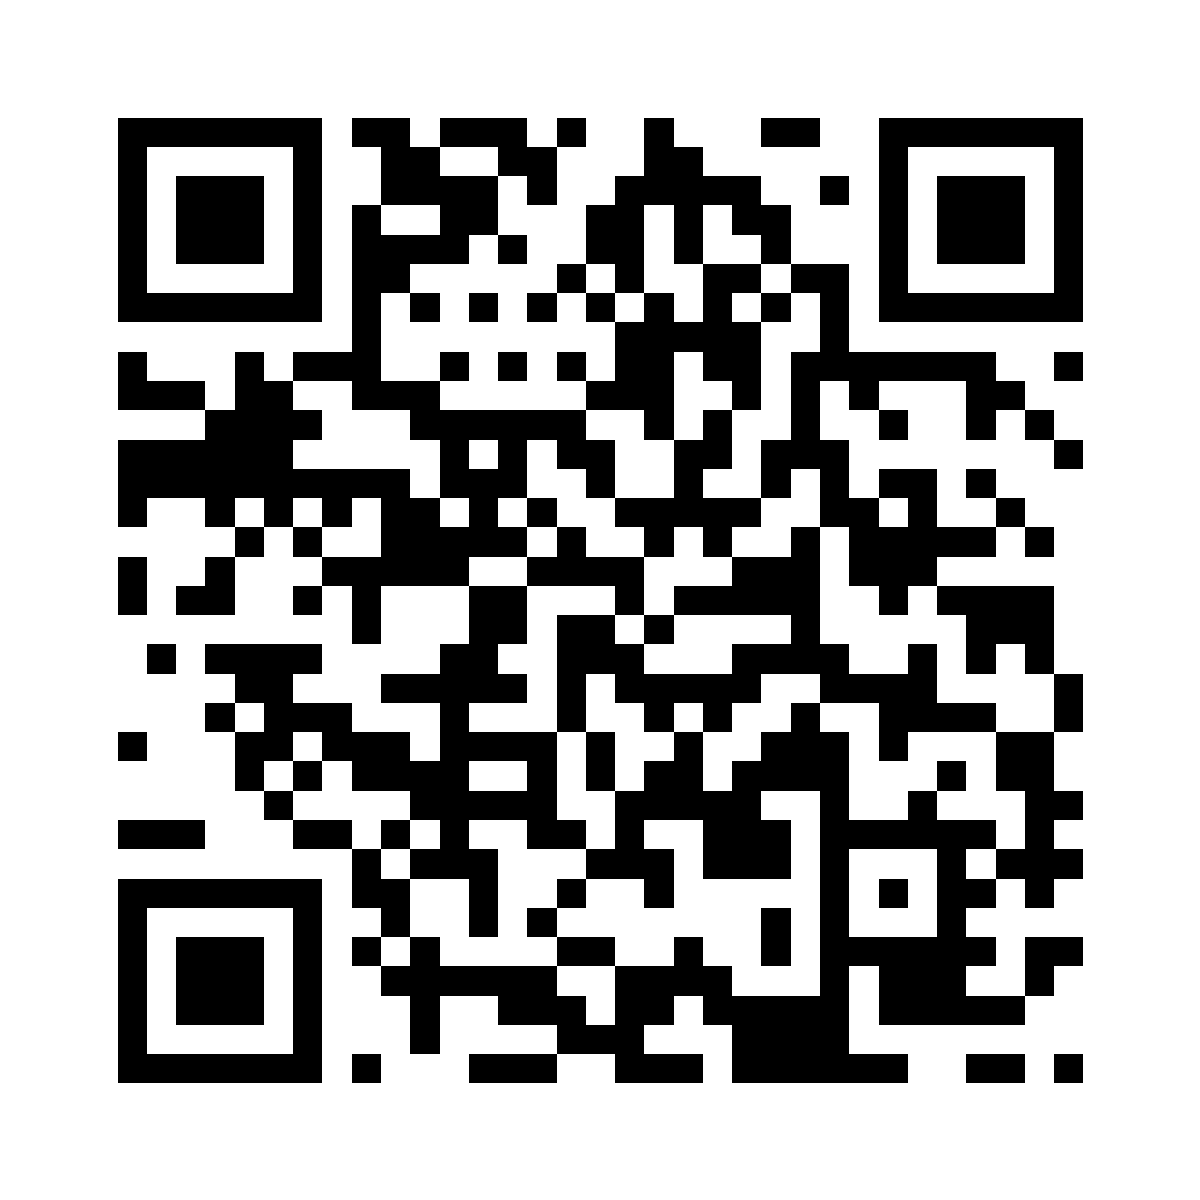
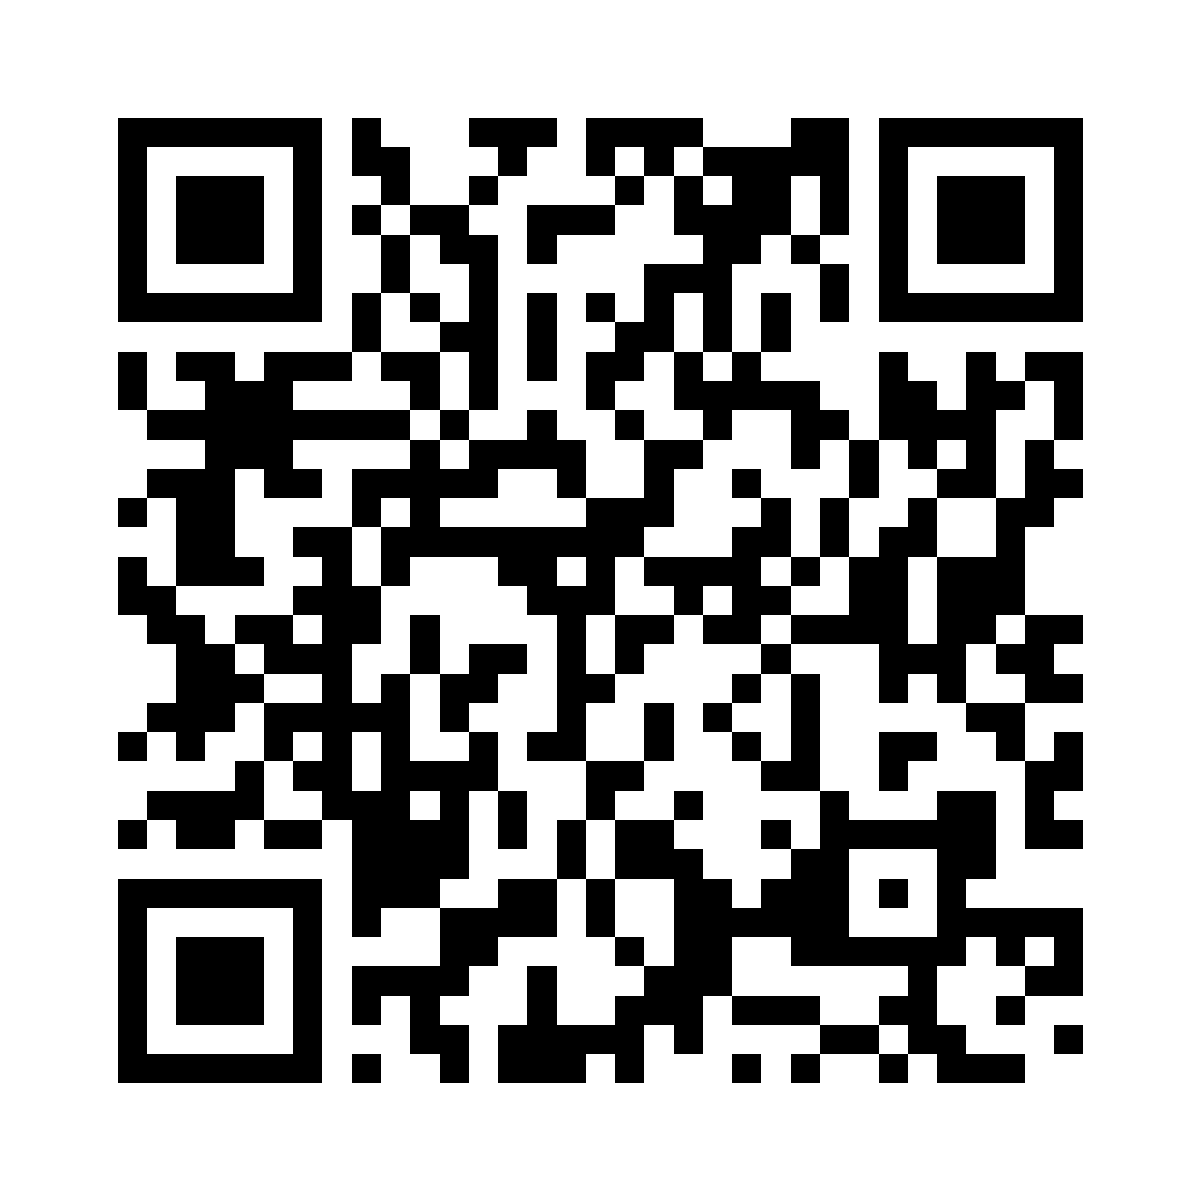
chore: point photo QR card at /photos instead of Google album
Regenerate QR PNG/SVG and the printable A6 card for
https://alice-rudolph-2026.vercel.app/photos now that the on-site
upload flow is primary.

Changed region(s): [[0.0925, 0.0925, 0.925, 0.925]]

diff --git a/public/photos-qr-card.html b/public/photos-qr-card.html
@@ -106,11 +106,11 @@
   </div>
   <p class="kicker">Alice &amp; Rudolph</p>
   <h1>Share Your Photos</h1>
-  <p class="sub">Scan to add every photo and video you take today to our shared album — and take home everyone else&apos;s too.</p>
+  <p class="sub">Scan to add the photos you took today to our album — full-resolution, straight off your phone — and see everyone else&apos;s too.</p>
   <div class="qr">
-    <svg xmlns="http://www.w3.org/2000/svg" viewBox="0 0 41 41" shape-rendering="crispEdges"><path fill="#ffffff" d="M0 0h41v41H0z"/><path stroke="#000000" d="M4 4.5h7m4 0h2m1 0h1m3 0h6m2 0h7M4 5.5h1m5 0h1m3 0h1m4 0h1m2 0h1m1 0h2m4 0h1m5 0h1M4 6.5h1m1 0h3m1 0h1m1 0h2m4 0h1m1 0h1m2 0h5m2 0h1m1 0h3m1 0h1M4 7.5h1m1 0h3m1 0h1m1 0h1m1 0h1m7 0h2m1 0h1m1 0h2m1 0h1m1 0h3m1 0h1M4 8.5h1m1 0h3m1 0h1m1 0h1m1 0h2m2 0h4m2 0h3m3 0h1m1 0h3m1 0h1M4 9.5h1m5 0h1m1 0h1m4 0h2m2 0h1m1 0h1m3 0h2m1 0h1m5 0h1M4 10.5h7m1 0h1m1 0h1m1 0h1m1 0h1m1 0h1m1 0h1m1 0h1m1 0h1m1 0h1m1 0h7M12 11.5h1m1 0h3m3 0h1m2 0h5M4 12.5h1m1 0h5m2 0h1m1 0h1m2 0h1m2 0h3m3 0h2m1 0h5M4 13.5h1m2 0h3m1 0h1m2 0h1m2 0h8m2 0h1m2 0h2m1 0h4M4 14.5h1m2 0h1m2 0h1m6 0h5m2 0h1m1 0h1m1 0h1m1 0h1m1 0h1m1 0h2M5 15.5h3m6 0h1m1 0h2m1 0h1m1 0h4m7 0h3m1 0h1M4 16.5h1m3 0h3m4 0h2m1 0h3m3 0h3m1 0h2m3 0h1m1 0h2M4 17.5h3m2 0h1m2 0h1m1 0h1m1 0h2m1 0h1m1 0h2m5 0h1m1 0h1m3 0h3M4 18.5h1m4 0h2m2 0h1m3 0h1m1 0h3m2 0h1m1 0h1m1 0h4m2 0h2M7 19.5h3m1 0h3m2 0h1m1 0h2m2 0h1m2 0h1m2 0h7M4 20.5h2m4 0h2m1 0h1m2 0h1m1 0h2m1 0h1m4 0h2m1 0h1m1 0h4m1 0h1M5 21.5h3m3 0h1m1 0h1m2 0h1m1 0h1m1 0h1m1 0h4m1 0h1m1 0h3m1 0h2m1 0h1M4 22.5h2m1 0h1m2 0h1m3 0h1m4 0h1m2 0h1m2 0h1m5 0h2m1 0h2M4 23.5h1m8 0h1m3 0h1m1 0h2m2 0h5m1 0h6m1 0h1M5 24.5h2m2 0h2m1 0h2m1 0h1m1 0h2m3 0h2m1 0h1m1 0h1m1 0h1m2 0h2m1 0h1M4 25.5h6m5 0h2m2 0h2m3 0h6m1 0h1m2 0h1m1 0h1M4 26.5h1m4 0h2m1 0h2m2 0h1m1 0h1m2 0h1m1 0h1m1 0h1m7 0h1m1 0h1M4 27.5h1m3 0h1m8 0h2m1 0h1m2 0h5m3 0h6M4 28.5h1m2 0h1m2 0h1m1 0h1m2 0h1m1 0h1m3 0h1m1 0h1m2 0h1m1 0h6m2 0h1M12 29.5h12m2 0h1m1 0h1m3 0h1m1 0h1M4 30.5h7m2 0h3m3 0h3m4 0h3m1 0h1m1 0h1m1 0h2M4 31.5h1m5 0h1m1 0h4m2 0h1m1 0h3m4 0h2m3 0h3M4 32.5h1m1 0h3m1 0h1m1 0h3m2 0h2m1 0h1m3 0h3m1 0h6M4 33.5h1m1 0h3m1 0h1m1 0h1m1 0h3m2 0h1m1 0h2m2 0h1m2 0h2m2 0h1m3 0h1M4 34.5h1m1 0h3m1 0h1m1 0h1m2 0h6m3 0h2m4 0h2M4 35.5h1m5 0h1m4 0h2m2 0h1m2 0h1m2 0h1m6 0h3M4 36.5h7m1 0h2m2 0h1m2 0h1m1 0h2m1 0h1m1 0h3m2 0h1m1 0h3"/></svg>
+    <svg xmlns="http://www.w3.org/2000/svg" viewBox="0 0 41 41" shape-rendering="crispEdges"><path fill="#ffffff" d="M0 0h41v41H0z"/><path stroke="#000000" d="M4 4.5h7m5 0h3m1 0h4m3 0h2m1 0h7M4 5.5h1m5 0h1m4 0h7m4 0h1m3 0h1m5 0h1M4 6.5h1m1 0h3m1 0h1m1 0h1m1 0h1m2 0h1m1 0h4m7 0h1m1 0h3m1 0h1M4 7.5h1m1 0h3m1 0h1m1 0h1m1 0h2m2 0h3m2 0h4m1 0h1m1 0h1m1 0h3m1 0h1M4 8.5h1m1 0h3m1 0h1m1 0h1m6 0h1m1 0h2m5 0h1m1 0h1m1 0h3m1 0h1M4 9.5h1m5 0h1m1 0h1m1 0h1m2 0h1m1 0h2m3 0h3m3 0h1m5 0h1M4 10.5h7m1 0h1m1 0h1m1 0h1m1 0h1m1 0h1m1 0h1m1 0h1m1 0h1m1 0h1m1 0h7M12 11.5h2m5 0h1m5 0h4M4 12.5h1m1 0h5m6 0h3m1 0h2m3 0h1m1 0h1m1 0h5M4 13.5h1m2 0h3m4 0h1m1 0h1m3 0h1m2 0h5m2 0h2m1 0h2m1 0h1M4 14.5h2m2 0h1m1 0h2m4 0h1m2 0h1m2 0h1m2 0h1m6 0h1m1 0h1M4 15.5h2m3 0h1m1 0h1m1 0h1m4 0h1m1 0h1m4 0h4m3 0h3M5 16.5h3m1 0h2m1 0h5m2 0h1m2 0h1m2 0h1m3 0h1m2 0h2m1 0h2M9 17.5h1m3 0h4m1 0h3m3 0h4m2 0h1m2 0h1m1 0h2M4 18.5h3m1 0h1m1 0h1m4 0h1m2 0h1m2 0h3m5 0h2m1 0h1m2 0h1M4 19.5h1m1 0h3m2 0h1m1 0h1m3 0h2m1 0h1m1 0h4m1 0h1m1 0h2m1 0h3M5 20.5h3m1 0h3m1 0h1m1 0h2m3 0h5m1 0h4m1 0h2m3 0h1M4 21.5h1m1 0h2m1 0h1m2 0h2m2 0h2m2 0h2m1 0h2m1 0h2m2 0h2m1 0h2m1 0h1M6 22.5h2m1 0h3m2 0h1m1 0h2m1 0h1m1 0h1m4 0h1m3 0h3m1 0h2M4 23.5h1m3 0h2m1 0h2m5 0h1m1 0h3m1 0h1m3 0h1m2 0h5M4 24.5h1m1 0h1m1 0h3m1 0h1m1 0h4m2 0h1m2 0h7m1 0h3m1 0h1M4 25.5h1m1 0h1m2 0h1m1 0h1m1 0h1m2 0h1m1 0h2m2 0h1m2 0h1m1 0h1m2 0h2m2 0h1m1 0h1M4 26.5h1m1 0h7m1 0h1m3 0h3m1 0h1m1 0h3m1 0h1m2 0h1m1 0h3M4 27.5h1m1 0h1m5 0h1m1 0h3m2 0h1m2 0h1m2 0h2m2 0h1m1 0h1m1 0h2M4 28.5h1m1 0h2m1 0h2m1 0h4m1 0h1m1 0h1m1 0h2m3 0h1m1 0h6m1 0h2M12 29.5h1m1 0h1m1 0h1m1 0h1m4 0h3m2 0h1m3 0h1m1 0h1m1 0h1M4 30.5h7m5 0h1m1 0h2m2 0h1m1 0h2m1 0h2m1 0h1m1 0h1m1 0h2M4 31.5h1m5 0h1m1 0h1m2 0h4m1 0h1m2 0h6m3 0h5M4 32.5h1m1 0h3m1 0h1m1 0h2m4 0h2m2 0h2m1 0h1m2 0h6M4 33.5h1m1 0h3m1 0h1m1 0h1m2 0h6m3 0h3m1 0h2m2 0h1m1 0h1m1 0h1M4 34.5h1m1 0h3m1 0h1m1 0h1m1 0h1m3 0h1m2 0h3m1 0h3m2 0h2m2 0h1M4 35.5h1m5 0h1m2 0h2m1 0h2m2 0h1m1 0h4m1 0h1m1 0h2m1 0h3M4 36.5h7m1 0h5m1 0h1m1 0h4m2 0h6m1 0h1m1 0h1"/></svg>
   </div>
-  <p class="url">photos.app.goo.gl/LaN6PFnpSzY8XcPg8</p>
+  <p class="url">alice-rudolph-2026.vercel.app/photos</p>
   <p class="footer">Alice &amp; Rudolph</p>
   <p class="date">12 · September · 2026</p>
 </div>
@@ -127,11 +127,11 @@
   </div>
   <p class="kicker">Alice &amp; Rudolph</p>
   <h1>Share Your Photos</h1>
-  <p class="sub">Scan to add every photo and video you take today to our shared album — and take home everyone else&apos;s too.</p>
+  <p class="sub">Scan to add the photos you took today to our album — full-resolution, straight off your phone — and see everyone else&apos;s too.</p>
   <div class="qr">
-    <svg xmlns="http://www.w3.org/2000/svg" viewBox="0 0 41 41" shape-rendering="crispEdges"><path fill="#ffffff" d="M0 0h41v41H0z"/><path stroke="#000000" d="M4 4.5h7m4 0h2m1 0h1m3 0h6m2 0h7M4 5.5h1m5 0h1m3 0h1m4 0h1m2 0h1m1 0h2m4 0h1m5 0h1M4 6.5h1m1 0h3m1 0h1m1 0h2m4 0h1m1 0h1m2 0h5m2 0h1m1 0h3m1 0h1M4 7.5h1m1 0h3m1 0h1m1 0h1m1 0h1m7 0h2m1 0h1m1 0h2m1 0h1m1 0h3m1 0h1M4 8.5h1m1 0h3m1 0h1m1 0h1m1 0h2m2 0h4m2 0h3m3 0h1m1 0h3m1 0h1M4 9.5h1m5 0h1m1 0h1m4 0h2m2 0h1m1 0h1m3 0h2m1 0h1m5 0h1M4 10.5h7m1 0h1m1 0h1m1 0h1m1 0h1m1 0h1m1 0h1m1 0h1m1 0h1m1 0h1m1 0h7M12 11.5h1m1 0h3m3 0h1m2 0h5M4 12.5h1m1 0h5m2 0h1m1 0h1m2 0h1m2 0h3m3 0h2m1 0h5M4 13.5h1m2 0h3m1 0h1m2 0h1m2 0h8m2 0h1m2 0h2m1 0h4M4 14.5h1m2 0h1m2 0h1m6 0h5m2 0h1m1 0h1m1 0h1m1 0h1m1 0h1m1 0h2M5 15.5h3m6 0h1m1 0h2m1 0h1m1 0h4m7 0h3m1 0h1M4 16.5h1m3 0h3m4 0h2m1 0h3m3 0h3m1 0h2m3 0h1m1 0h2M4 17.5h3m2 0h1m2 0h1m1 0h1m1 0h2m1 0h1m1 0h2m5 0h1m1 0h1m3 0h3M4 18.5h1m4 0h2m2 0h1m3 0h1m1 0h3m2 0h1m1 0h1m1 0h4m2 0h2M7 19.5h3m1 0h3m2 0h1m1 0h2m2 0h1m2 0h1m2 0h7M4 20.5h2m4 0h2m1 0h1m2 0h1m1 0h2m1 0h1m4 0h2m1 0h1m1 0h4m1 0h1M5 21.5h3m3 0h1m1 0h1m2 0h1m1 0h1m1 0h1m1 0h4m1 0h1m1 0h3m1 0h2m1 0h1M4 22.5h2m1 0h1m2 0h1m3 0h1m4 0h1m2 0h1m2 0h1m5 0h2m1 0h2M4 23.5h1m8 0h1m3 0h1m1 0h2m2 0h5m1 0h6m1 0h1M5 24.5h2m2 0h2m1 0h2m1 0h1m1 0h2m3 0h2m1 0h1m1 0h1m1 0h1m2 0h2m1 0h1M4 25.5h6m5 0h2m2 0h2m3 0h6m1 0h1m2 0h1m1 0h1M4 26.5h1m4 0h2m1 0h2m2 0h1m1 0h1m2 0h1m1 0h1m1 0h1m7 0h1m1 0h1M4 27.5h1m3 0h1m8 0h2m1 0h1m2 0h5m3 0h6M4 28.5h1m2 0h1m2 0h1m1 0h1m2 0h1m1 0h1m3 0h1m1 0h1m2 0h1m1 0h6m2 0h1M12 29.5h12m2 0h1m1 0h1m3 0h1m1 0h1M4 30.5h7m2 0h3m3 0h3m4 0h3m1 0h1m1 0h1m1 0h2M4 31.5h1m5 0h1m1 0h4m2 0h1m1 0h3m4 0h2m3 0h3M4 32.5h1m1 0h3m1 0h1m1 0h3m2 0h2m1 0h1m3 0h3m1 0h6M4 33.5h1m1 0h3m1 0h1m1 0h1m1 0h3m2 0h1m1 0h2m2 0h1m2 0h2m2 0h1m3 0h1M4 34.5h1m1 0h3m1 0h1m1 0h1m2 0h6m3 0h2m4 0h2M4 35.5h1m5 0h1m4 0h2m2 0h1m2 0h1m2 0h1m6 0h3M4 36.5h7m1 0h2m2 0h1m2 0h1m1 0h2m1 0h1m1 0h3m2 0h1m1 0h3"/></svg>
+    <svg xmlns="http://www.w3.org/2000/svg" viewBox="0 0 41 41" shape-rendering="crispEdges"><path fill="#ffffff" d="M0 0h41v41H0z"/><path stroke="#000000" d="M4 4.5h7m5 0h3m1 0h4m3 0h2m1 0h7M4 5.5h1m5 0h1m4 0h7m4 0h1m3 0h1m5 0h1M4 6.5h1m1 0h3m1 0h1m1 0h1m1 0h1m2 0h1m1 0h4m7 0h1m1 0h3m1 0h1M4 7.5h1m1 0h3m1 0h1m1 0h1m1 0h2m2 0h3m2 0h4m1 0h1m1 0h1m1 0h3m1 0h1M4 8.5h1m1 0h3m1 0h1m1 0h1m6 0h1m1 0h2m5 0h1m1 0h1m1 0h3m1 0h1M4 9.5h1m5 0h1m1 0h1m1 0h1m2 0h1m1 0h2m3 0h3m3 0h1m5 0h1M4 10.5h7m1 0h1m1 0h1m1 0h1m1 0h1m1 0h1m1 0h1m1 0h1m1 0h1m1 0h1m1 0h7M12 11.5h2m5 0h1m5 0h4M4 12.5h1m1 0h5m6 0h3m1 0h2m3 0h1m1 0h1m1 0h5M4 13.5h1m2 0h3m4 0h1m1 0h1m3 0h1m2 0h5m2 0h2m1 0h2m1 0h1M4 14.5h2m2 0h1m1 0h2m4 0h1m2 0h1m2 0h1m2 0h1m6 0h1m1 0h1M4 15.5h2m3 0h1m1 0h1m1 0h1m4 0h1m1 0h1m4 0h4m3 0h3M5 16.5h3m1 0h2m1 0h5m2 0h1m2 0h1m2 0h1m3 0h1m2 0h2m1 0h2M9 17.5h1m3 0h4m1 0h3m3 0h4m2 0h1m2 0h1m1 0h2M4 18.5h3m1 0h1m1 0h1m4 0h1m2 0h1m2 0h3m5 0h2m1 0h1m2 0h1M4 19.5h1m1 0h3m2 0h1m1 0h1m3 0h2m1 0h1m1 0h4m1 0h1m1 0h2m1 0h3M5 20.5h3m1 0h3m1 0h1m1 0h2m3 0h5m1 0h4m1 0h2m3 0h1M4 21.5h1m1 0h2m1 0h1m2 0h2m2 0h2m2 0h2m1 0h2m1 0h2m2 0h2m1 0h2m1 0h1M6 22.5h2m1 0h3m2 0h1m1 0h2m1 0h1m1 0h1m4 0h1m3 0h3m1 0h2M4 23.5h1m3 0h2m1 0h2m5 0h1m1 0h3m1 0h1m3 0h1m2 0h5M4 24.5h1m1 0h1m1 0h3m1 0h1m1 0h4m2 0h1m2 0h7m1 0h3m1 0h1M4 25.5h1m1 0h1m2 0h1m1 0h1m1 0h1m2 0h1m1 0h2m2 0h1m2 0h1m1 0h1m2 0h2m2 0h1m1 0h1M4 26.5h1m1 0h7m1 0h1m3 0h3m1 0h1m1 0h3m1 0h1m2 0h1m1 0h3M4 27.5h1m1 0h1m5 0h1m1 0h3m2 0h1m2 0h1m2 0h2m2 0h1m1 0h1m1 0h2M4 28.5h1m1 0h2m1 0h2m1 0h4m1 0h1m1 0h1m1 0h2m3 0h1m1 0h6m1 0h2M12 29.5h1m1 0h1m1 0h1m1 0h1m4 0h3m2 0h1m3 0h1m1 0h1m1 0h1M4 30.5h7m5 0h1m1 0h2m2 0h1m1 0h2m1 0h2m1 0h1m1 0h1m1 0h2M4 31.5h1m5 0h1m1 0h1m2 0h4m1 0h1m2 0h6m3 0h5M4 32.5h1m1 0h3m1 0h1m1 0h2m4 0h2m2 0h2m1 0h1m2 0h6M4 33.5h1m1 0h3m1 0h1m1 0h1m2 0h6m3 0h3m1 0h2m2 0h1m1 0h1m1 0h1M4 34.5h1m1 0h3m1 0h1m1 0h1m1 0h1m3 0h1m2 0h3m1 0h3m2 0h2m2 0h1M4 35.5h1m5 0h1m2 0h2m1 0h2m2 0h1m1 0h4m1 0h1m1 0h2m1 0h3M4 36.5h7m1 0h5m1 0h1m1 0h4m2 0h6m1 0h1m1 0h1"/></svg>
   </div>
-  <p class="url">photos.app.goo.gl/LaN6PFnpSzY8XcPg8</p>
+  <p class="url">alice-rudolph-2026.vercel.app/photos</p>
   <p class="footer">Alice &amp; Rudolph</p>
   <p class="date">12 · September · 2026</p>
 </div>
